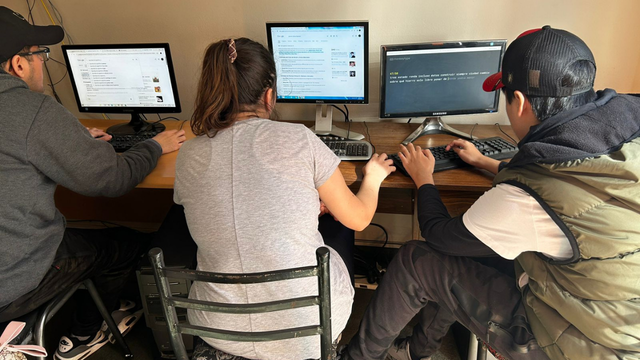
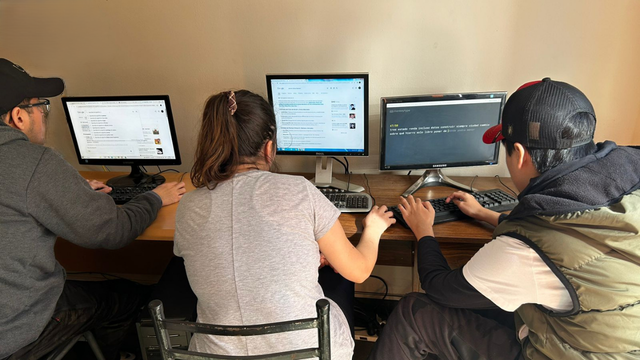
feat: add workshop image tallerArte1.png to assets

diff --git a/index.html b/index.html
@@ -269,7 +269,7 @@
                             </div>
                             <div class="carousel-inner rounded-3">
                                 <div class="carousel-item active">
-                                    <img src="img/tallerArte1.png" class="d-block w-100" alt="Taller de Arte">
+                                    <img src="img/tallerArte1.png" class="d-block w-100" alt="Taller de Informatica">
                                 </div>
                                 <div class="carousel-item">
                                     <div
